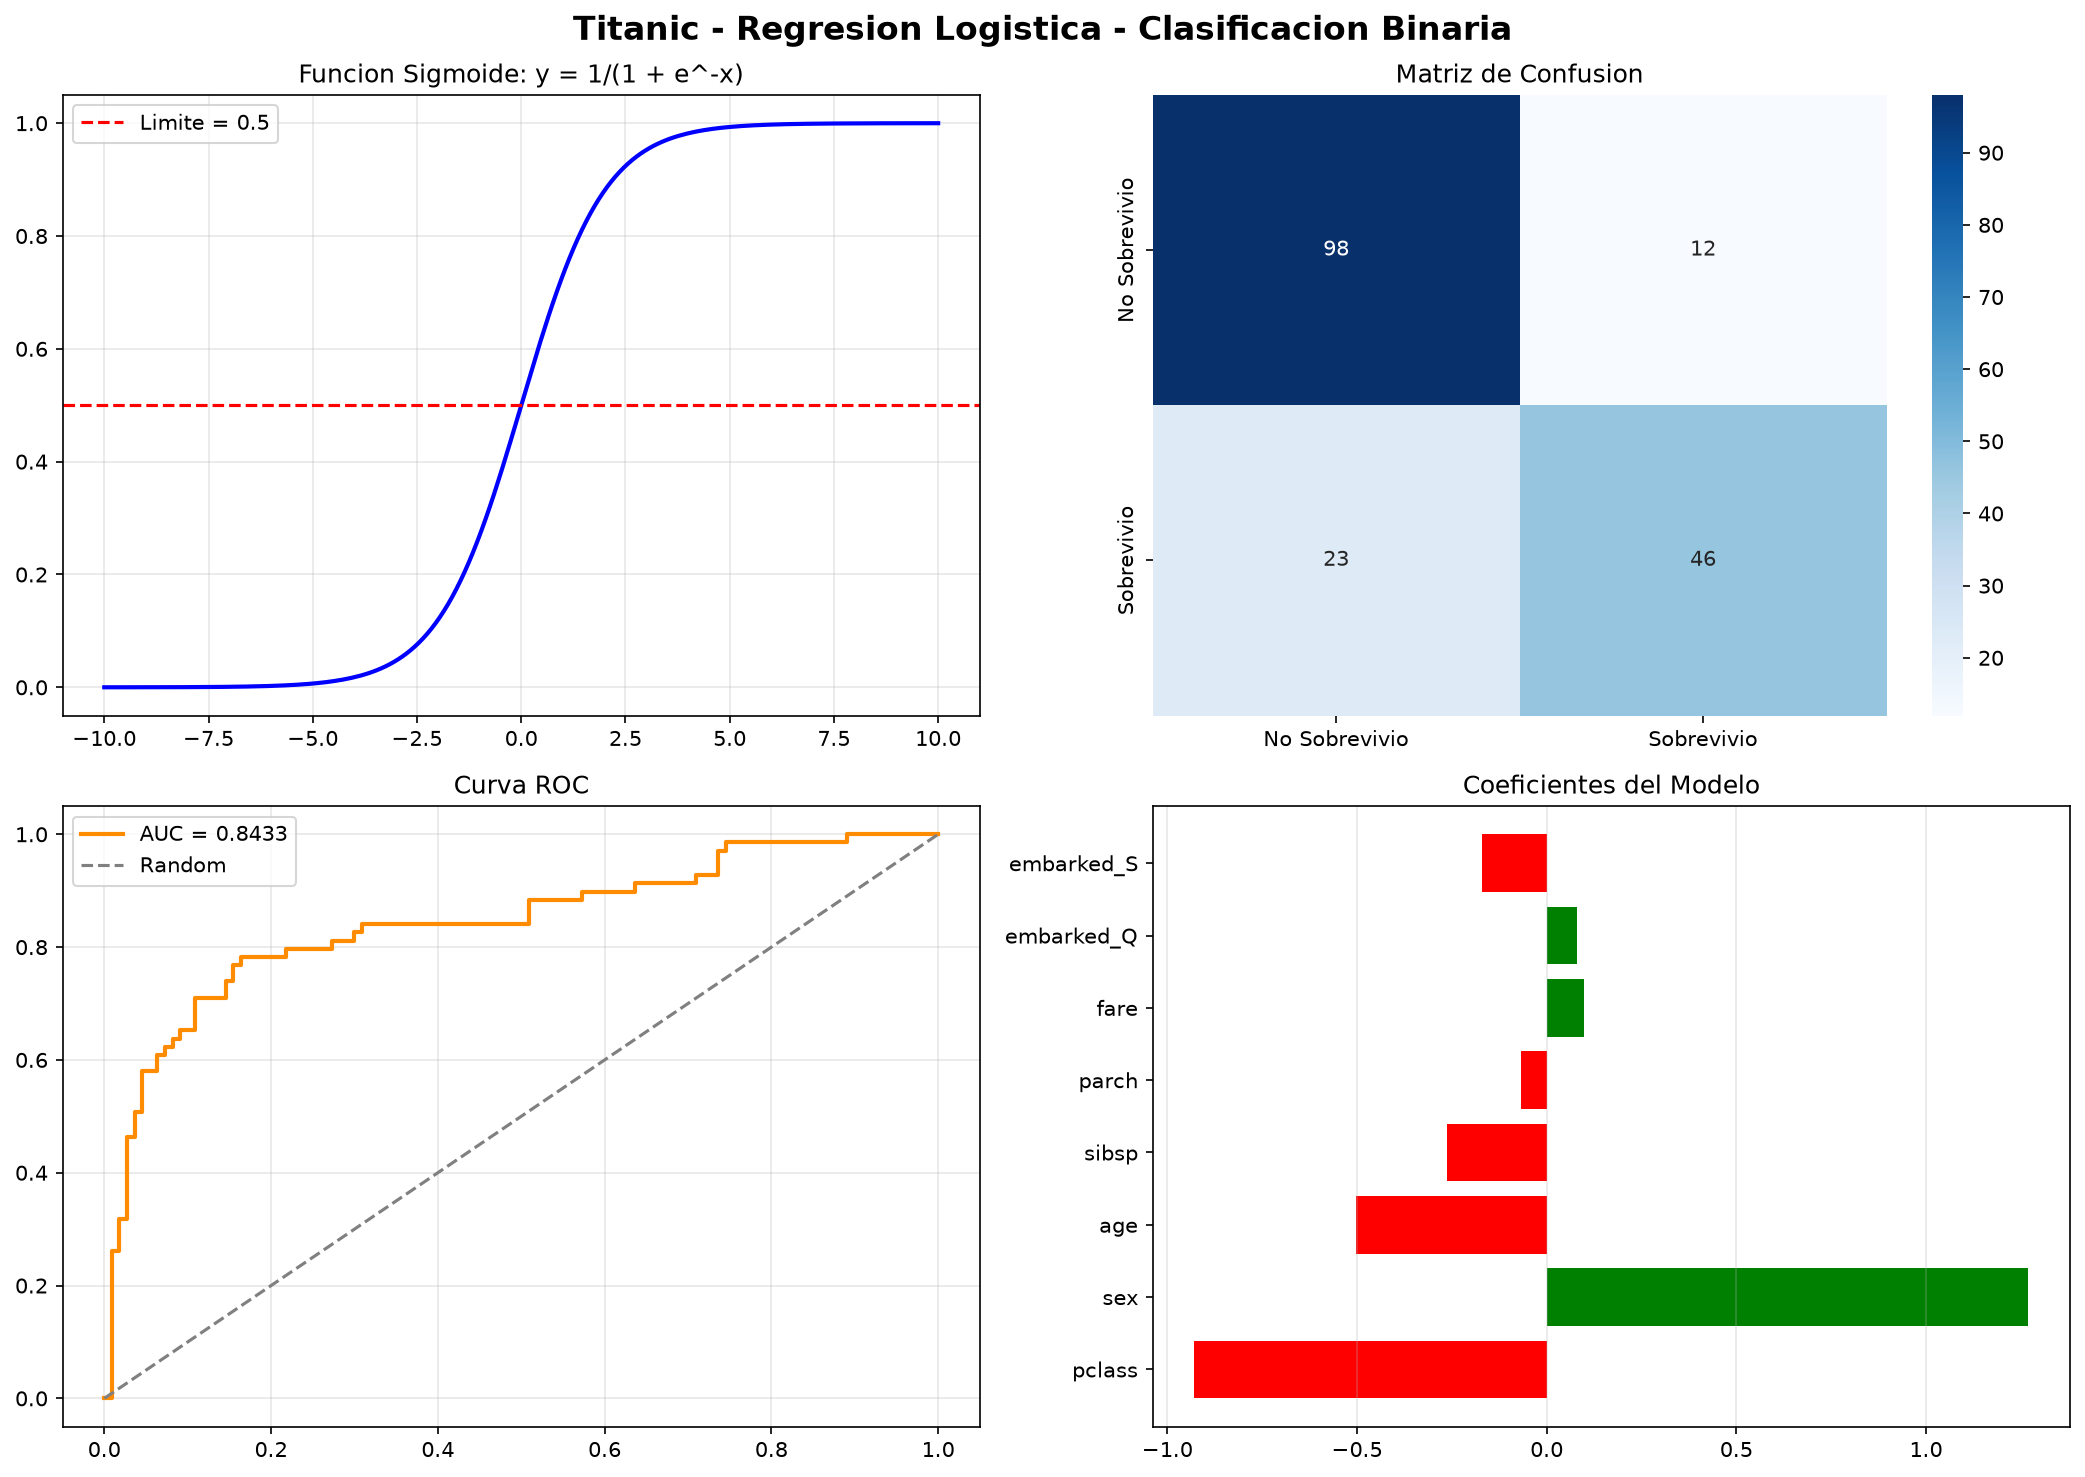
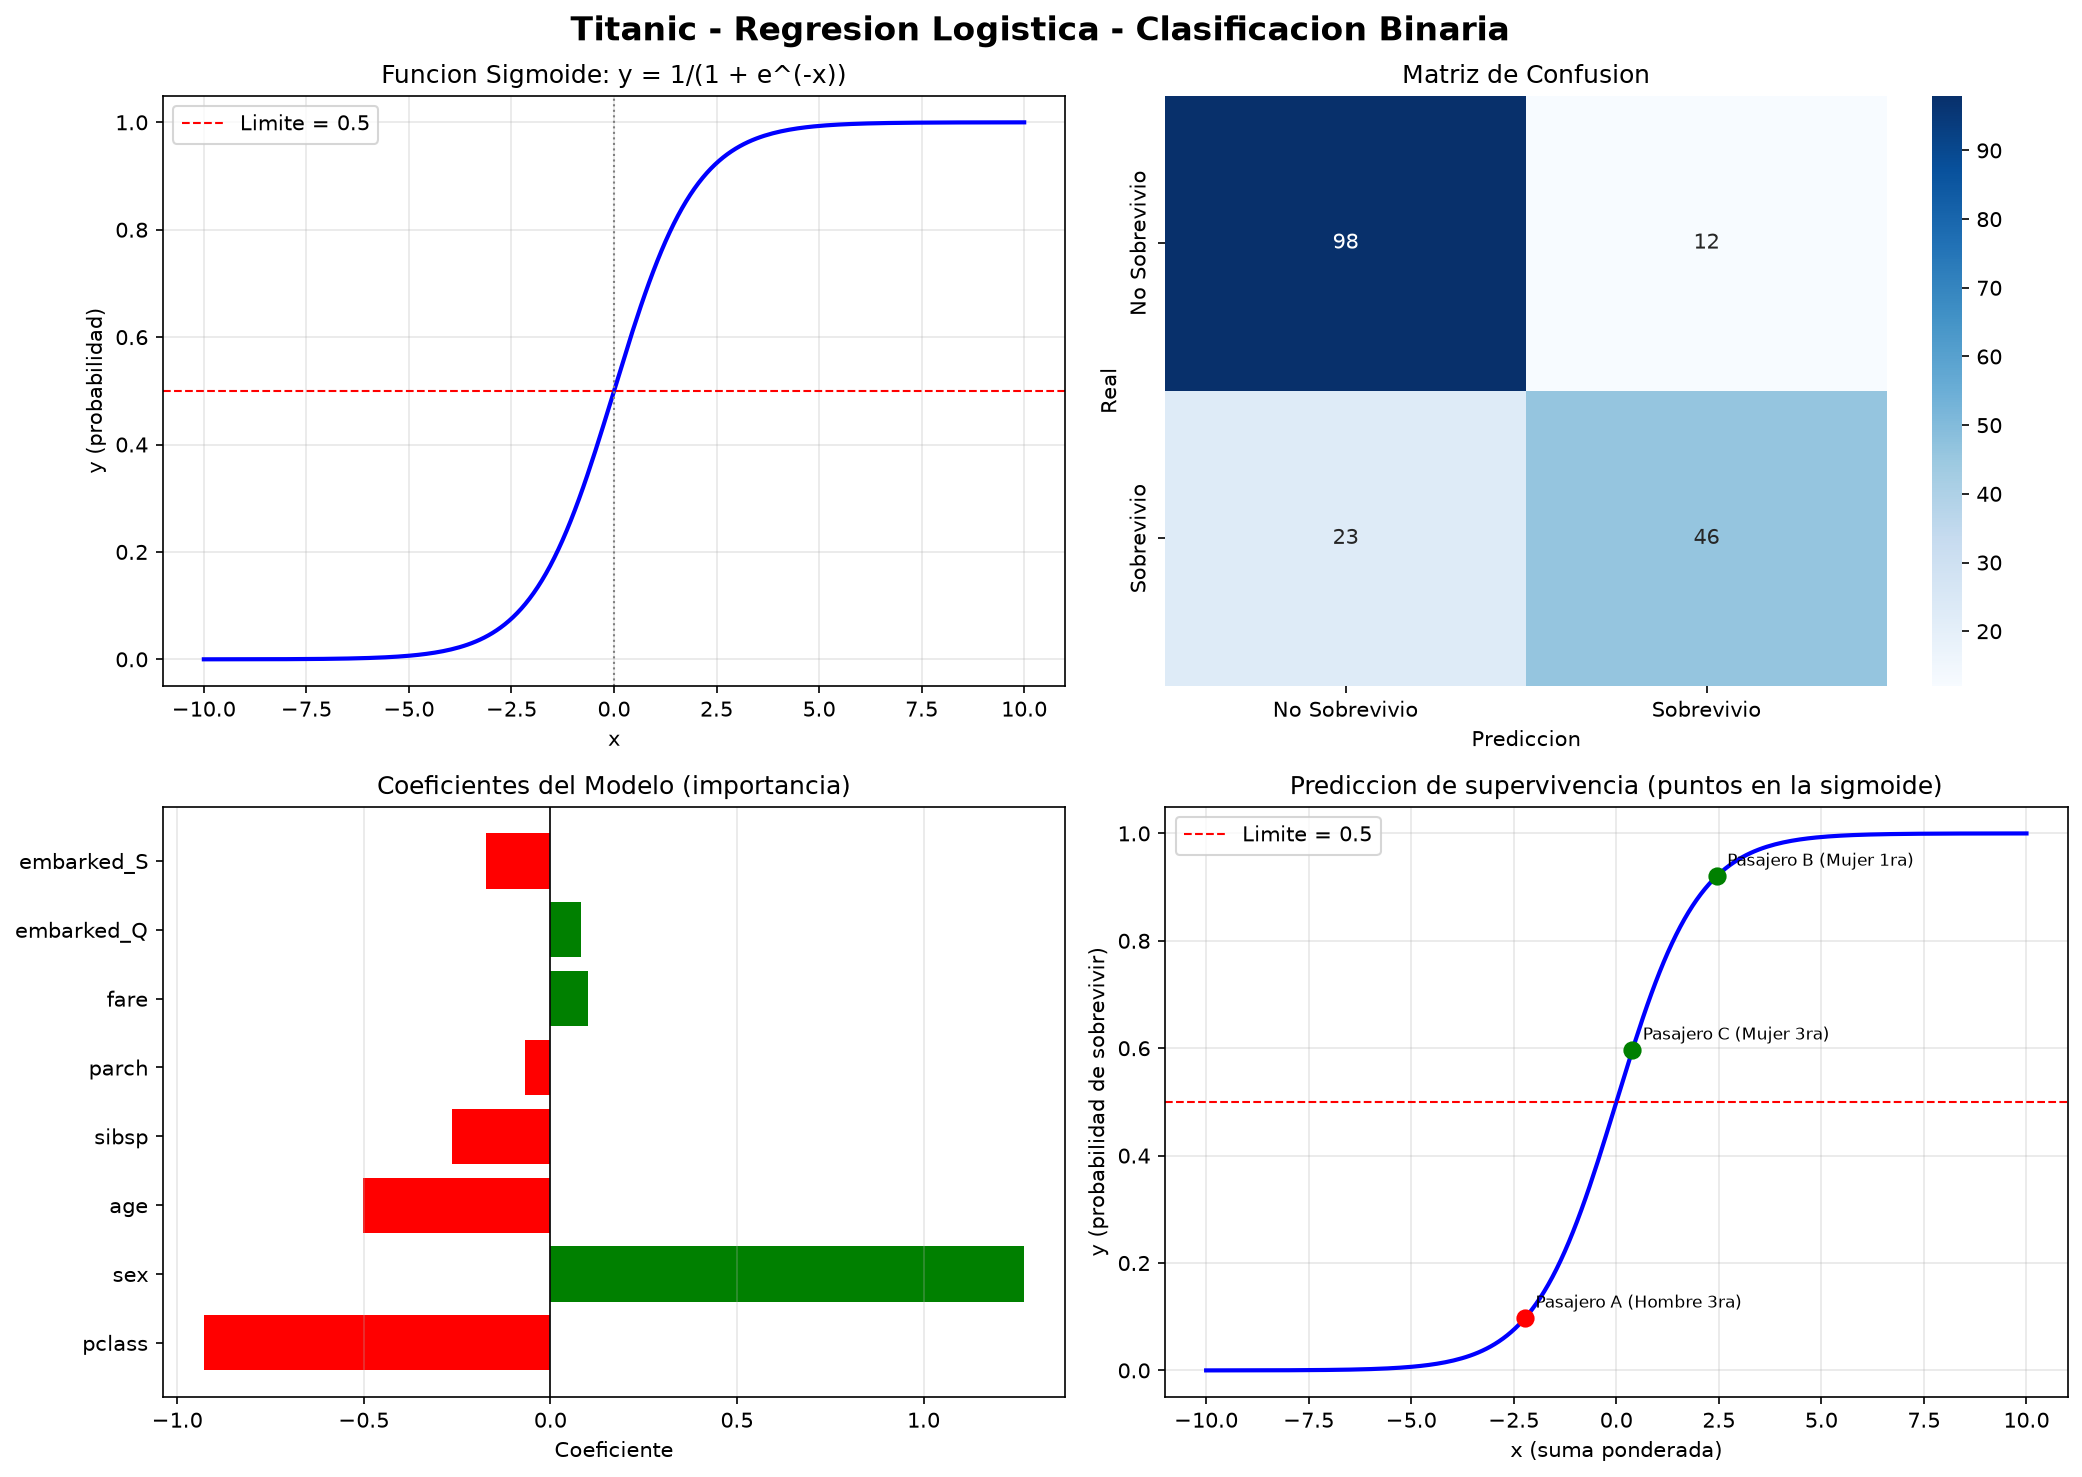
chore: add cambio de roc

diff --git a/titanic.py b/titanic.py
@@ -6,7 +6,7 @@ from sklearn.model_selection import train_test_split
 from sklearn.linear_model import LogisticRegression
 from sklearn.metrics import (
     accuracy_score, precision_score, recall_score, f1_score,
-    confusion_matrix, roc_curve, auc, classification_report
+    confusion_matrix, classification_report
 )
 from sklearn.preprocessing import StandardScaler
 import tkinter as tk
@@ -99,14 +99,12 @@ accuracy = accuracy_score(y_test, y_pred)
 precision = precision_score(y_test, y_pred)
 recall = recall_score(y_test, y_pred)
 f1 = f1_score(y_test, y_pred)
-auc_roc = auc(*roc_curve(y_test, y_prob)[:2])
 
 print(f"\n--- Metricas de Clasificacion Binaria ---")
 print(f"  Accuracy  : {accuracy:.4f}  ({accuracy*100:.2f}%)")
 print(f"  Precision : {precision:.4f}  ({precision*100:.2f}%)")
 print(f"  Recall    : {recall:.4f}  ({recall*100:.2f}%)")
 print(f"  F1-Score  : {f1:.4f}")
-print(f"  AUC-ROC   : {auc_roc:.4f}")
 
 print(f"\n--- Reporte de Clasificacion ---")
 print(classification_report(y_test, y_pred, target_names=["No Sobrevivio", "Sobrevivio"]))
@@ -154,27 +152,39 @@ ax2.set_title("Matriz de Confusion")
 ax2.set_xlabel("Prediccion")
 ax2.set_ylabel("Real")
 
-# --- Grafica 3: Curva ROC ---
+# --- Grafica 3: Importancia de features (coeficientes) ---
 ax3 = axes[1, 0]
-fpr, tpr, _ = roc_curve(y_test, y_prob)
-ax3.plot(fpr, tpr, color="darkorange", linewidth=2, label=f"AUC-ROC = {auc_roc:.4f}")
-ax3.plot([0, 1], [0, 1], color="gray", linestyle="--", linewidth=1, label="Random")
-ax3.set_title("Curva ROC")
-ax3.set_xlabel("Tasa de Falsos Positivos (FPR)")
-ax3.set_ylabel("Tasa de Verdaderos Positivos (TPR)")
-ax3.legend(loc="lower right")
-ax3.grid(True, alpha=0.3)
-
-# --- Grafica 4: Importancia de features (coeficientes) ---
-ax4 = axes[1, 1]
 feature_names = X.columns
 coefs = model.coef_[0]
 colors = ["green" if c > 0 else "red" for c in coefs]
-ax4.barh(feature_names, coefs, color=colors)
-ax4.set_title("Coeficientes del Modelo (importancia)")
-ax4.set_xlabel("Coeficiente")
-ax4.axvline(x=0, color="black", linewidth=0.8)
-ax4.grid(True, alpha=0.3, axis="x")
+ax3.barh(feature_names, coefs, color=colors)
+ax3.set_title("Coeficientes del Modelo (importancia)")
+ax3.set_xlabel("Coeficiente")
+ax3.axvline(x=0, color="black", linewidth=0.8)
+ax3.grid(True, alpha=0.3, axis="x")
+
+# --- Grafica 4: Prediccion de supervivencia (punto sobre la sigmoide) ---
+ax4 = axes[1, 1]
+ax4.plot(x_sig, y_sig, color="blue", linewidth=2)
+ax4.axhline(y=0.5, color="red", linestyle="--", linewidth=1, label="Limite = 0.5")
+# Ejemplo de varios pasajeros
+pasajeros = pd.DataFrame([
+    {"nombre": "Pasajero A (Hombre 3ra)", "row": {"pclass":3,"sex":0,"age":25,"sibsp":0,"parch":0,"fare":7,"embarked_Q":0,"embarked_S":1}},
+    {"nombre": "Pasajero B (Mujer 1ra)", "row": {"pclass":1,"sex":1,"age":29,"sibsp":1,"parch":0,"fare":100,"embarked_Q":0,"embarked_S":1}},
+    {"nombre": "Pasajero C (Mujer 3ra)", "row": {"pclass":3,"sex":1,"age":26,"sibsp":0,"parch":0,"fare":8,"embarked_Q":0,"embarked_S":1}},
+])
+for _, p in pasajeros.iterrows():
+    inp = pd.DataFrame([p["row"]])
+    prob = model.predict_proba(scaler.transform(inp))[0][1]
+    z = np.log(prob / (1 - prob)) if (0 < prob < 1) else (10 if prob == 1 else -10)
+    color = "green" if prob >= 0.5 else "red"
+    ax4.scatter(z, prob, color=color, s=60, zorder=5)
+    ax4.annotate(p["nombre"], (z, prob), textcoords="offset points", xytext=(5, 5), fontsize=8)
+ax4.set_title("Prediccion de supervivencia (puntos en la sigmoide)")
+ax4.set_xlabel("x (suma ponderada)")
+ax4.set_ylabel("y (probabilidad de sobrevivir)")
+ax4.legend()
+ax4.grid(True, alpha=0.3)
 
 plt.tight_layout()
 plt.savefig("titanic_graficas.png", dpi=150, bbox_inches="tight")
